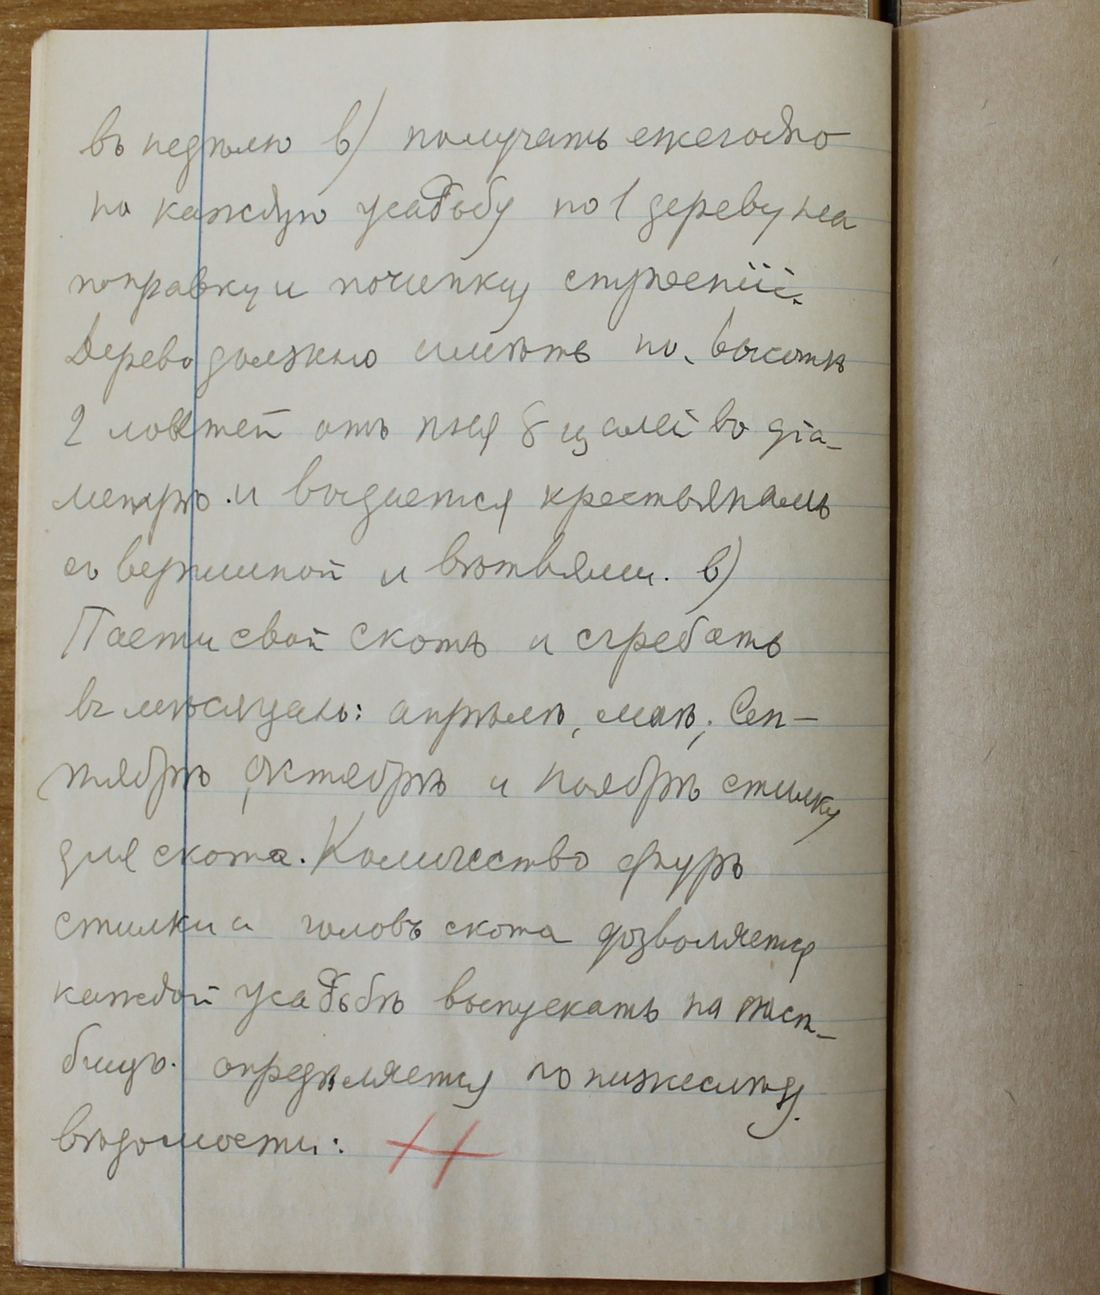
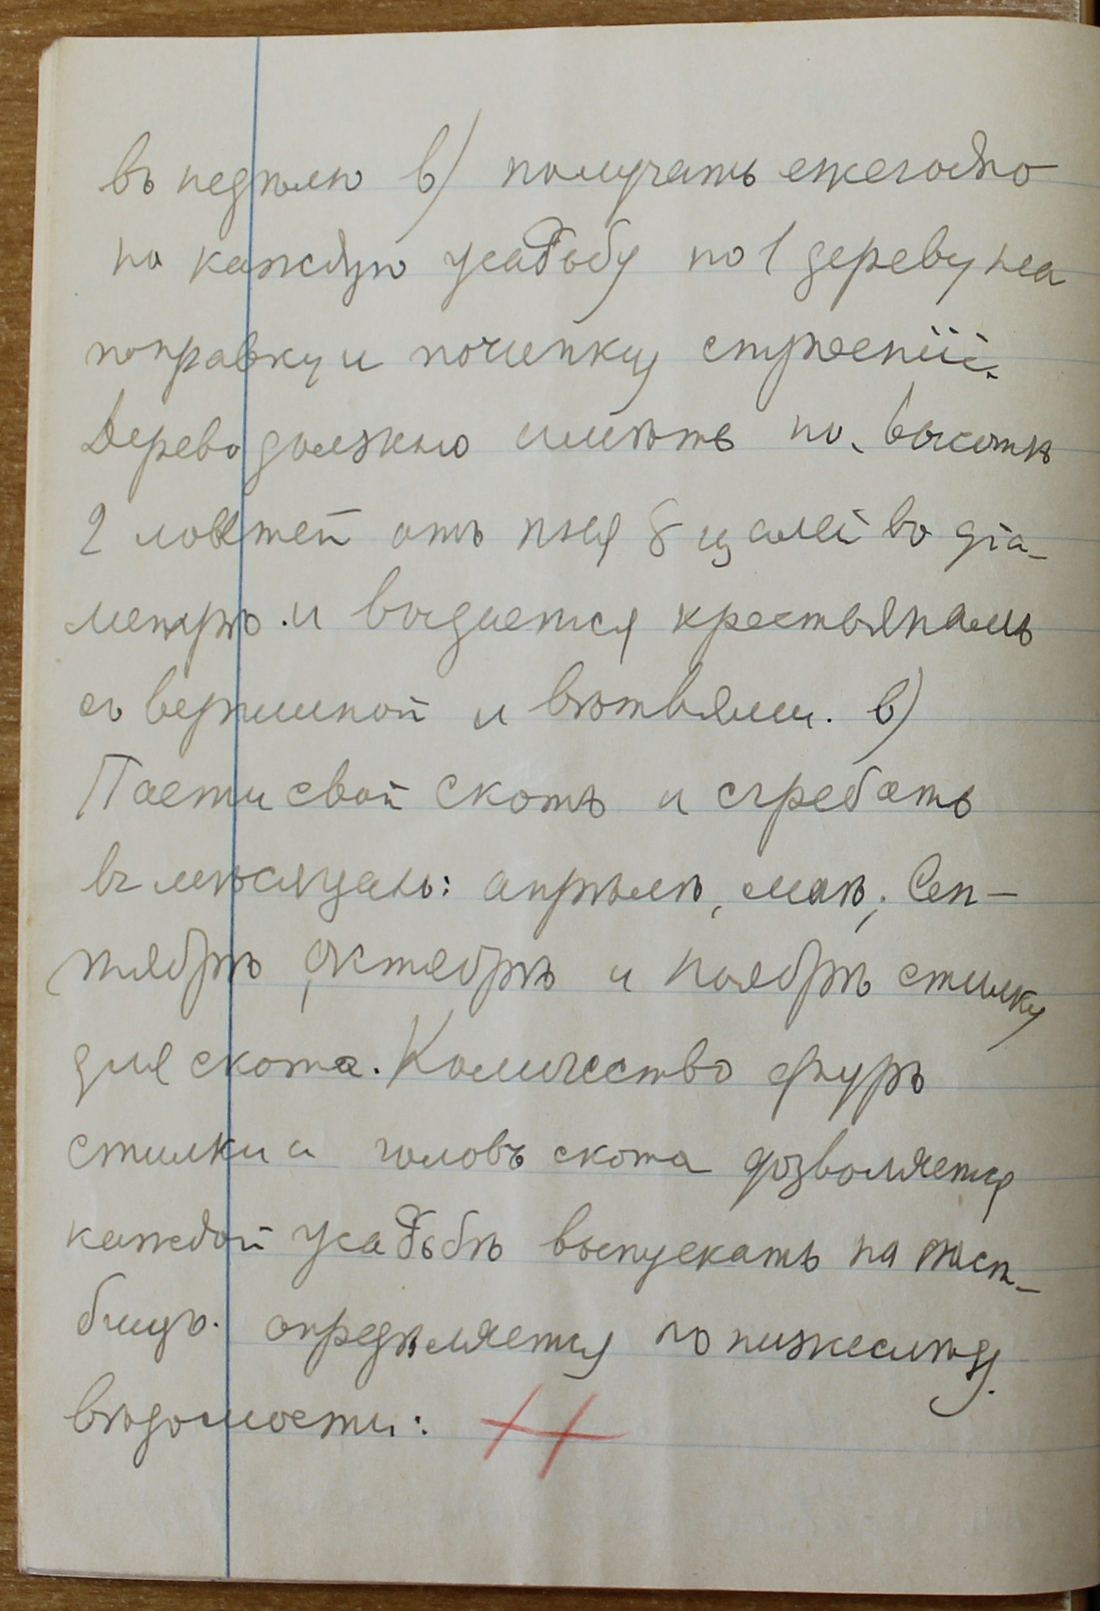
Fold page: green lines for the page edges; 53/968/0/-/716 pages 3 and 5 cut
At the editor's word: the fold page now has two green lines marking what
is kept of each scan, saved with the fold and angle and applied when the
pages are cut. 53/968/0/-/716 proposes edges for the back of the sheet of
1858 (cut at its fold) and the last page (cut before the inside back
cover). Other holdings unchanged until a file is saved.

diff --git a/pipeline/intake/fold_page.py b/pipeline/intake/fold_page.py
@@ -20,6 +20,15 @@ Two ways of using it:
                                 opening is saved, as {file: {"fold": x in
                                 pixels of the scan, "angle": degrees}}.
 
+Page edges (crop=True; the editor, 2026-10-15: "You need to give me the
+ability to mark vertical lines for where to crop pages"). Two green lines
+mark the outer edges of what is kept: the left edge of the left page and the
+right edge of the right page, or the two sides of a scan that is one page.
+What lies outside them is shaded and is cut away (courtbook.cut). A click
+moves the nearest line to it; Tab chooses the line that the comma and full
+stop keys move. They are saved with the fold, as "left" and "right" in
+pixels of the scan.
+
 Turning. The red line stays vertical, because the cut is vertical; it is the
 sheet that turns under it, about its centre. The mouse wheel turns it a tenth
 of a degree at a time (half a degree with shift); holding shift, or the right
@@ -56,6 +65,11 @@ PAGE = """<!doctype html>
                  top: 0; bottom: 0; cursor: ew-resize; }
   #band { position: absolute; top: 0; bottom: 0; background: rgba(255, 32, 32, .13); pointer-events: none; }
   #orig { position: absolute; top: 0; bottom: 0; width: 1px; background: #4a90d9; opacity: .8; }
+  .cut { position: absolute; top: -40px; bottom: -40px; width: 2px; background: #30d060; }
+  .cut::after { content: ''; position: absolute; left: -14px; right: -14px;
+                top: 0; bottom: 0; cursor: ew-resize; }
+  .shade { position: absolute; top: 0; bottom: 0; background: rgba(0, 0, 0, .55); pointer-events: none; }
+  .active { outline: 2px solid #fff; outline-offset: 1px; }
   #grid { position: absolute; inset: -40px 0; pointer-events: none; display: none;
           background: repeating-linear-gradient(90deg, rgba(80, 200, 255, .55) 0 1px, transparent 1px 5%%); }
   #note { position: relative; z-index: 4; padding: .25rem .8rem; background: #151515;
@@ -73,6 +87,7 @@ PAGE = """<!doctype html>
   <span id="name" class="muted"></span>
   <span id="cutbox">cut <b id="frac"></b></span>
   <span id="anglebox">turned <b id="angle"></b>&deg;</span>
+  <span id="edgebox">page edges <b id="edges"></b></span>
   <span id="was" class="muted"></span>
   <span id="chg" class="moved"></span>
   <span style="flex:1"></span>
@@ -84,7 +99,9 @@ PAGE = """<!doctype html>
     <b>mouse wheel</b> or <kbd>shift</kbd>+drag (or right-drag) turn the sheet,
     <kbd>[</kbd><kbd>]</kbd> turn a little, <kbd>0</kbd> upright,
     <kbd>g</kbd> guide lines</span>; <kbd>shift</kbd> = bigger steps;
-    blue line = current cut</span>
+    blue line = current cut<span id="edgehelp">;
+    <b>green lines</b> = the edges of what is kept: a click moves the nearest line,
+    <kbd>Tab</kbd> chooses the line <kbd>,</kbd><kbd>.</kbd> move</span></span>
 </header>
 <div id="note" class="muted"></div>
 
@@ -93,6 +110,10 @@ PAGE = """<!doctype html>
   <div id="grid"></div>
   <div id="band"></div>
   <div id="orig"></div>
+  <div id="shadeL" class="shade"></div>
+  <div id="shadeR" class="shade"></div>
+  <div id="lcut" class="cut"></div>
+  <div id="rcut" class="cut"></div>
   <div id="line"></div>
 </div>
 <textarea id="out" spellcheck="false"></textarea>
@@ -109,20 +130,30 @@ const img = $('img'), line = $('line'), orig = $('orig'), band = $('band'), stag
 const cur = () => ITEMS[i];
 const fold = it => (mine[it.file] && mine[it.file].fold !== undefined) ? mine[it.file].fold : it.fold;
 const angle = it => (mine[it.file] && mine[it.file].angle !== undefined) ? mine[it.file].angle : (it.angle || 0);
+// the page edges, as fractions of the width: what lies outside them is cut away
+const edge0 = (it, k) => (it[k] === undefined || it[k] === null) ? (k === 'left' ? 0 : 1) : it[k];
+const edge = (it, k) => (mine[it.file] && mine[it.file][k] !== undefined) ? mine[it.file][k] : edge0(it, k);
+const lcut = $('lcut'), rcut = $('rcut');
+let active = 'fold';             // the line that , and . move
+const lines = it => (it.fold === null ? [] : ['fold']).concat(CFG.crop ? ['left', 'right'] : []);
 const keep = () => { try { localStorage.setItem(CFG.key, JSON.stringify(mine)); } catch (e) {} };
 const touched = it => {
   const m = mine[it.file];
   return !!m && ((m.fold !== undefined && Math.abs(m.fold - it.fold) > 1e-6) ||
-                 (m.angle !== undefined && Math.abs(m.angle - (it.angle || 0)) > 1e-6));
+                 (m.angle !== undefined && Math.abs(m.angle - (it.angle || 0)) > 1e-6) ||
+                 (m.left !== undefined && Math.abs(m.left - edge0(it, 'left')) > 1e-6) ||
+                 (m.right !== undefined && Math.abs(m.right - edge0(it, 'right')) > 1e-6));
 };
 
 if (!CFG.rotate) { $('anglebox').style.display = 'none'; $('turnhelp').style.display = 'none'; }
+if (!CFG.crop) { $('edgebox').style.display = 'none'; $('edgehelp').style.display = 'none'; }
 
 function show() {
   const it = cur();
   img.src = it.src;
   $('name').textContent = it.file;
   $('pos').textContent = (i + 1) + ' / ' + ITEMS.length;
+  active = lines(it)[0] || 'fold';
   $('note').textContent = it.note || '';
   $('was').textContent = it.fold === null ? 'one page, not cut'
       : (it.conf || '') + ' ' + (CFG.pixels ? Math.round(it.fold * it.w) : it.fold.toFixed(3));
@@ -142,6 +173,18 @@ function draw() {
     band.style.width = (2 * o) + 'px';
     $('frac').textContent = CFG.pixels ? Math.round(f * it.w) : f.toFixed(4);
   }
+  for (const el of [lcut, rcut, $('shadeL'), $('shadeR')]) el.style.display = CFG.crop ? 'block' : 'none';
+  if (CFG.crop) {
+    const L = edge(it, 'left'), R = edge(it, 'right');
+    lcut.style.left = (L * w - 1) + 'px';
+    rcut.style.left = (R * w - 1) + 'px';
+    $('shadeL').style.left = '0px'; $('shadeL').style.width = (L * w) + 'px';
+    $('shadeR').style.left = (R * w) + 'px'; $('shadeR').style.width = ((1 - R) * w) + 'px';
+    $('edges').textContent = Math.round(L * it.w) + ' to ' + Math.round(R * it.w);
+  }
+  line.classList.toggle('active', active === 'fold');
+  lcut.classList.toggle('active', active === 'left');
+  rcut.classList.toggle('active', active === 'right');
   const a = angle(it);
   img.style.transform = 'rotate(' + (-a) + 'deg)';     // CSS turns clockwise, the angle is counter-clockwise
   $('angle').textContent = (a > 0 ? '+' : '') + a.toFixed(2);
@@ -153,9 +196,20 @@ function setFold(f) {
   const it = cur();
   if (it.fold === null) return;
   f = Math.max(0.02, Math.min(0.98, f));
+  if (CFG.crop) f = Math.max(edge(it, 'left') + 0.02, Math.min(edge(it, 'right') - 0.02, f));
   (mine[it.file] = mine[it.file] || {}).fold = f;
   keep(); draw();
 }
+function setEdge(k, f) {
+  const it = cur(), gap = 0.02;
+  let lo = 0, hi = 1;
+  if (k === 'left') hi = (it.fold === null ? edge(it, 'right') : fold(it)) - gap;
+  else lo = (it.fold === null ? edge(it, 'left') : fold(it)) + gap;
+  (mine[it.file] = mine[it.file] || {})[k] = Math.max(lo, Math.min(hi, f));
+  keep(); draw();
+}
+function setLine(k, f) { if (k === 'fold') setFold(f); else setEdge(k, f); }
+function where(k) { const it = cur(); return k === 'fold' ? fold(it) : edge(it, k); }
 function setAngle(a) {
   if (!CFG.rotate) return;
   const it = cur();
@@ -170,7 +224,13 @@ function box() {
   return {left: r.left, top: r.top, width: img.clientWidth, height: img.clientHeight,
           cx: r.left + img.clientWidth / 2, cy: r.top + img.clientHeight / 2};
 }
-const lineAt = e => { const b = box(); setFold((e.clientX - b.left) / b.width); };
+const lineAt = e => { const b = box(); setLine(active, (e.clientX - b.left) / b.width); };
+function nearest(e) {
+  const b = box(), x = (e.clientX - b.left) / b.width;
+  let best = active, d = 9;
+  for (const k of lines(cur())) { const dd = Math.abs(where(k) - x); if (dd < d) { d = dd; best = k; } }
+  return best;
+}
 const bearing = e => { const b = box(); return Math.atan2(e.clientY - b.cy, e.clientX - b.cx) * 180 / Math.PI; };
 
 let mode = null, a0 = 0, b0 = 0;
@@ -178,7 +238,7 @@ stage.addEventListener('pointerdown', e => {
   stage.setPointerCapture(e.pointerId);
   if (CFG.rotate && (e.shiftKey || e.button === 2)) {
     mode = 'turn'; a0 = angle(cur()); b0 = bearing(e); document.body.classList.add('turning');
-  } else if (e.button === 0) { mode = 'line'; lineAt(e); }
+  } else if (e.button === 0 && lines(cur()).length) { mode = 'line'; active = nearest(e); lineAt(e); }
   e.preventDefault();
 });
 stage.addEventListener('pointermove', e => {
@@ -214,8 +274,13 @@ document.addEventListener('keydown', e => {
   // arrows page through the openings; comma and full stop nudge the line; brackets turn the sheet
   if (e.key === 'ArrowLeft')  { step(-1); e.preventDefault(); }
   else if (e.key === 'ArrowRight') { step(1);  e.preventDefault(); }
-  else if (e.key === ',' || e.key === '<') { setFold(fold(cur()) - px / w); e.preventDefault(); }
-  else if (e.key === '.' || e.key === '>') { setFold(fold(cur()) + px / w); e.preventDefault(); }
+  else if (e.key === ',' || e.key === '<') { setLine(active, where(active) - px / w); e.preventDefault(); }
+  else if (e.key === '.' || e.key === '>') { setLine(active, where(active) + px / w); e.preventDefault(); }
+  else if (e.key === 'Tab') {
+    const ls = lines(cur());
+    if (ls.length) { active = ls[(ls.indexOf(active) + (e.shiftKey ? ls.length - 1 : 1)) %% ls.length]; draw(); }
+    e.preventDefault();
+  }
   else if (e.key === '[' || e.key === '{') { setAngle(angle(cur()) + deg); e.preventDefault(); }
   else if (e.key === ']' || e.key === '}') { setAngle(angle(cur()) - deg); e.preventDefault(); }
   else if (e.key === '0') setAngle(0);
@@ -228,7 +293,9 @@ function result() {
   const out = {};
   if (CFG.pixels) {            // every opening, in pixels of the scan, with its angle
     for (const it of ITEMS)
-      out[it.file] = {fold: it.fold === null ? null : Math.round(fold(it) * it.w), angle: angle(it)};
+      out[it.file] = Object.assign({fold: it.fold === null ? null : Math.round(fold(it) * it.w), angle: angle(it)},
+                                   CFG.crop ? {left: Math.round(edge(it, 'left') * it.w),
+                                               right: Math.round(edge(it, 'right') * it.w)} : {});
   } else {                     // only the openings whose line was moved, as a fraction of the width
     for (const it of ITEMS) if (touched(it)) out[it.file] = fold(it);
   }
@@ -254,14 +321,16 @@ show();
 """
 
 
-def render(title, items, save='folds.json', key=None, rotate=False, pixels=False, overlap=0):
+def render(title, items, save='folds.json', key=None, rotate=False, pixels=False, overlap=0, crop=False):
     """The page as a string.
 
     items: [{'file', 'src', 'w', 'h', 'fold' (fraction of the width, or None
-    for a scan that is one page), 'angle' (degrees, optional), 'conf' (a word
-    on where the fold comes from), 'note' (a line shown under the header)}].
+    for a scan that is one page), 'angle' (degrees, optional), 'left' and
+    'right' (the page edges as fractions of the width, with crop=True;
+    0 and 1 if absent), 'conf' (a word on where the fold comes from), 'note'
+    (a line shown under the header)}].
     """
     cfg = {'save': save, 'key': key or ('folds:' + title), 'rotate': bool(rotate), 'pixels': bool(pixels),
-           'overlap': overlap}
+           'overlap': overlap, 'crop': bool(crop)}
     return PAGE % {'title': title, 'save': save, 'items': json.dumps(items, ensure_ascii=False),
                    'cfg': json.dumps(cfg, ensure_ascii=False)}

diff --git a/pipeline/intake/courtbook.py b/pipeline/intake/courtbook.py
@@ -155,35 +155,45 @@ def cut(raw, scans, skip=()):
     A scan with fold None is one page; its id is the third field. Pages go to
     raw/processed/; halves named in `skip` go to raw/processed/_not_staged/.
     Where the editor turned a sheet on the fold page (placed()), the scan is
-    turned first, so that the cut runs along the fold.
+    turned first, so that the cut runs along the fold. Where page edges are
+    set (placed(); the green lines of the fold page), what lies outside them
+    is cut away: the left edge of the left page, the right edge of the right
+    page, or both sides of a scan that is one page.
     """
     from PIL import Image
     processed = os.path.join(raw, 'processed')
     apart = os.path.join(processed, '_not_staged')
     os.makedirs(apart, exist_ok=True)
     angles = getattr(scans, 'angles', {})
+    edges = getattr(scans, 'edges', {})
     n = 0
     for name, fold, left, right in scans:
         im, dx = turned(Image.open(os.path.join(raw, name)).convert('RGB'), angles.get(name, 0))
+        lo, hi = edges.get(name, (None, None))
+        a = 0 if lo is None else max(0, int(round(lo + dx)))
+        b = im.width if hi is None else min(im.width, int(round(hi + dx)))
         if fold is None:
-            parts = [(left, (0, 0, im.width, im.height))]
+            parts = [(left, (a, 0, b, im.height))]
         else:
             x = int(round(fold + dx))
-            parts = [(left, (0, 0, x + OVERLAP, im.height)), (right, (x - OVERLAP, 0, im.width, im.height))]
+            parts = [(left, (a, 0, x + OVERLAP, im.height)), (right, (x - OVERLAP, 0, b, im.height))]
         for pid, box in parts:
             folder = apart if pid in skip else processed
             im.crop(box).save(os.path.join(folder, pid + '.jpg'), quality=92)
             n += 1
-    print('cut', n, 'page images into', processed, ('(%d sheet(s) turned)' % len(angles)) if angles else '')
+    print('cut', n, 'page images into', processed, ('(%d sheet(s) turned)' % len(angles)) if angles else '',
+          ('(%d with page edges)' % len(edges)) if edges else '')
 
 
 class Scans(list):
-    """A holding's SCANS with the editor's folds put in; `.angles` is {file name: degrees} where they turned a sheet."""
+    """A holding's SCANS with the editor's folds put in; `.angles` is {file name: degrees} where they turned a sheet,
+    `.edges` {file name: (left, right)} in pixels of the scan where page edges are set."""
     angles = {}
+    edges = {}
     mine = ()
 
 
-def placed(here, scans):
+def placed(here, scans, edges=None):
     """`scans` with the folds the editor placed, if they saved any (folds.json beside the holding's script).
 
     The fold page offers "folds_<slug>.json"; `python pipeline/intake/courtbook.py
@@ -194,10 +204,16 @@ def placed(here, scans):
     by the first fold page (2026-10-07), {scan: x}, is read too. The angle is
     how far the sheet is turned, counter-clockwise, before it is cut: cut()
     and fold_sheet() take it from the list this returns.
+
+    Page edges (2026-10-15): "left" and "right" in the file, in pixels of the
+    scan, are where the green lines of the fold page stand; `edges`
+    ({scan: (left, right)}, either may be None) is the holding's own first
+    proposal, which the file overrides.
     """
     import json
     out = Scans(scans)
     out.angles, out.mine = {}, set()
+    out.edges = {k: tuple(v) for k, v in (edges or {}).items()}
     p = os.path.join(here, 'folds.json')
     if not os.path.isfile(p):
         return out
@@ -212,6 +228,8 @@ def placed(here, scans):
             fold = int(v['fold'])
         if v.get('angle'):
             out.angles[name] = float(v['angle'])
+        if 'left' in v or 'right' in v:
+            out.edges[name] = (v.get('left'), v.get('right'))
         out[k] = (name, fold, left, right)
         out.mine.add(name)
     return out
@@ -245,8 +263,9 @@ def fold_sheet(root, slug, ref, raw, scans, skip=(), leaf_of=None, note=''):
     The page is fold_page.py's, the one review_folds.py has always written:
     the whole opening in the window, the arrow keys to page through, the red
     line dragged onto the fold. Here the sheet can also be turned with the
-    mouse. "Save" gives folds_<slug>.json with the x of every fold and the
-    angle of every sheet; see placed().
+    mouse, and two green lines mark the page edges, what is kept. "Save"
+    gives folds_<slug>.json with the x of every fold, the angle of every
+    sheet and its edges; see placed().
     """
     import fold_page
     from PIL import Image
@@ -257,6 +276,7 @@ def fold_sheet(root, slug, ref, raw, scans, skip=(), leaf_of=None, note=''):
             os.remove(os.path.join(out, old))
     leaf_of = leaf_of or {}
     angles = getattr(scans, 'angles', {})
+    edges = getattr(scans, 'edges', {})
     mine = getattr(scans, 'mine', ())
     items = []
 
@@ -274,8 +294,10 @@ def fold_sheet(root, slug, ref, raw, scans, skip=(), leaf_of=None, note=''):
                     or Image.open(dst).width != min(w, FOLD_PAGE_WIDTH):
                 k = min(1.0, FOLD_PAGE_WIDTH / w)
                 im.convert('RGB').resize((int(round(w * k)), int(round(h * k))), Image.LANCZOS).save(dst, quality=85)
+        lo, hi = edges.get(name, (None, None))
         item = {'file': name, 'src': stem + '.jpg', 'w': w, 'h': h, 'angle': angles.get(name, 0),
                 'fold': None if fold is None else round(fold / w, 6),
+                'left': 0 if lo is None else round(lo / w, 6), 'right': 1 if hi is None else round(hi / w, 6),
                 'conf': 'placed by you' if name in mine else 'first proposal'}
         if fold is None:
             item['note'] = 'One page, not cut: %s.' % say(left)
@@ -285,7 +307,7 @@ def fold_sheet(root, slug, ref, raw, scans, skip=(), leaf_of=None, note=''):
             item['note'] += '  ' + note
         items.append(item)
     page = fold_page.render(ref, items, save='folds_%s.json' % slug, key='folds2:' + slug, rotate=True, pixels=True,
-                            overlap=OVERLAP)
+                            overlap=OVERLAP, crop=True)
     io.open(os.path.join(out, 'index.html'), 'w', encoding='utf-8', newline='\n').write(page)
     print('wrote', os.path.join(out, 'index.html'), 'with', len(items), 'scan(s)')
 

diff --git a/units/app539680716/intake/holding.py b/units/app539680716/intake/holding.py
@@ -74,6 +74,13 @@ FOLDS = {5163: 1612, 5164: 1651, 5165: 1634, 5166: 1609, 5167: 1617, 5169: 1601,
          5172: 1624, 5173: 1638, 5174: 1662, 5175: 1661, 5176: 1660, 5177: 1670, 5178: 1693, 5179: 1694}
 SINGLE = (5159, 5160, 5161, 5162, 5180)
 SKIP = {'5163_a1'}
+# Page edges, the first proposal (2026-10-15; the editor: "Page 3 should be
+# cropped to remove the empty page parts", and on page 5 too much of the
+# other side was left): the back of the sheet of 1858 ends at its fold, where
+# its writing ends; the last page ends before the inside back cover. In
+# pixels of the photo, (left, right); the green lines of the fold page move
+# them, and folds.json, once the editor saves it, wins (courtbook.placed).
+EDGES = {PHOTOS + '/IMG_5161.jpg': (None, 2260), PHOTOS + '/IMG_5180.jpg': (None, 1680)}
 SCANS = ([(PHOTOS + '/IMG_%d.jpg' % n, None, '%d_a' % n, None) for n in SINGLE]
          + [(PHOTOS + '/IMG_%d.jpg' % n, x, '%d_a1' % n, '%d_a2' % n) for n, x in sorted(FOLDS.items())])
 LEAF = {'5159_a': "the archive's title page", '5162_a': 'the cover', '5160_a': 'the loose sheet, front',
@@ -163,9 +170,9 @@ def main():
     arg = sys.argv[1:]
     check()
     if '--crop' in arg:
-        courtbook.cut(RAW, courtbook.placed(HERE, SCANS), skip=SKIP)
+        courtbook.cut(RAW, courtbook.placed(HERE, SCANS, EDGES), skip=SKIP)
     if '--sheet' in arg:
-        courtbook.fold_sheet(ROOT, SLUG, REF, RAW, courtbook.placed(HERE, SCANS), SKIP, LEAF, note=FOLD_NOTE)
+        courtbook.fold_sheet(ROOT, SLUG, REF, RAW, courtbook.placed(HERE, SCANS, EDGES), SKIP, LEAF, note=FOLD_NOTE)
     if '--write' in arg:
         write()
     if '--english' in arg:

diff --git a/docs/WORKING_NOTES.md b/docs/WORKING_NOTES.md
@@ -682,6 +682,18 @@ Where the rest is:
   summaries, claim record, `about` citations, timeline `refs`, `not_in` in
   `reference/people.yml`, spot-sheet rows, then `relabel_scans.py --apply`
   and two rebuilds (scan labels carry the document number).
+- **Page edges on the fold page** (the editor, 2026-10-15): besides the red
+  fold line, two green lines mark what is kept of each scan, the outer edge
+  of each page or both sides of a single page; outside them is shaded and
+  cut away. They are saved as "left" and "right" in pixels in
+  `folds_<slug>.json`, read by `courtbook.placed()` and applied by
+  `courtbook.cut()`; a holding proposes them with `placed(here, scans,
+  EDGES)`. A page cut at the fold alone kept the edge of the facing page
+  (716, the last page) or a blank half (the back of the sheet of 1858).
+  The court-book holdings get the lines the next time their `--sheet` is
+  run; nothing of theirs changes until the editor saves a file.
+  `review_folds.py` pages are unchanged (`crop=False`). Test the page's
+  script with `node --check` and a stub DOM before handing it over.
 - **A spot sheet's answers are saved as `review/<slug>/<sheet>_answers.json`**
   (`readings.csv` gives `readings_answers.json`); only `open_queries.csv`
   uses `query_answers.json`. Look for the right name before saying nothing

diff --git a/CLAUDE.md b/CLAUDE.md
@@ -379,8 +379,11 @@ so check them.
   always wrote): one opening at a time, shown whole, arrow keys to page
   through, the red line dragged onto the fold. For the court books the
   sheet can also be turned with the mouse (wheel, or shift-drag) where the
-  fold was photographed at a slant. "Save" gives `folds_<slug>.json` with
-  the fold and angle of every scan; `python pipeline/intake/courtbook.py
+  fold was photographed at a slant. Two green lines mark the page edges,
+  what is kept on each side (editor, 2026-10-15: "give me the ability to
+  mark vertical lines for where to crop pages"); a holding can propose
+  them (`EDGES` in 53/968/0/-/716's `holding.py`). "Save" gives
+  `folds_<slug>.json` with the fold, angle and edges of every scan; `python pipeline/intake/courtbook.py
   folds <slug> <file>` copies it to the holding's `intake/folds.json`,
   turns and cuts the scans, stages and remakes the page images. **Do not
   build another review page where one exists** (the editor, 2026-10-07).

diff --git a/units/app539680716/notes.md b/units/app539680716/notes.md
@@ -51,7 +51,12 @@ session) into `processed/`. IMG_5159: only the archive's title page is
 taken (editor). IMG_5168 repeats IMG_5169 and is not used; the blank
 inside front cover (5163_a1) is left out. The fold page is
 `review/app539680716/folds/index.html` (`holding.py --sheet`); the editor
-has not yet looked at it.
+has not yet looked at it. Page edges (2026-10-15, the editor): the back
+of the sheet of 1858 (IMG_5161) is cut at its fold, x 2260, where its
+writing ends, and the last page (IMG_5180) at x 1680, before the inside
+back cover (`EDGES` in `holding.py`, the first proposal; the green lines
+of the fold page move them). The blank lower half of IMG_5161 is still in
+the picture: the lines are vertical only.
 
 ## The reading
 
